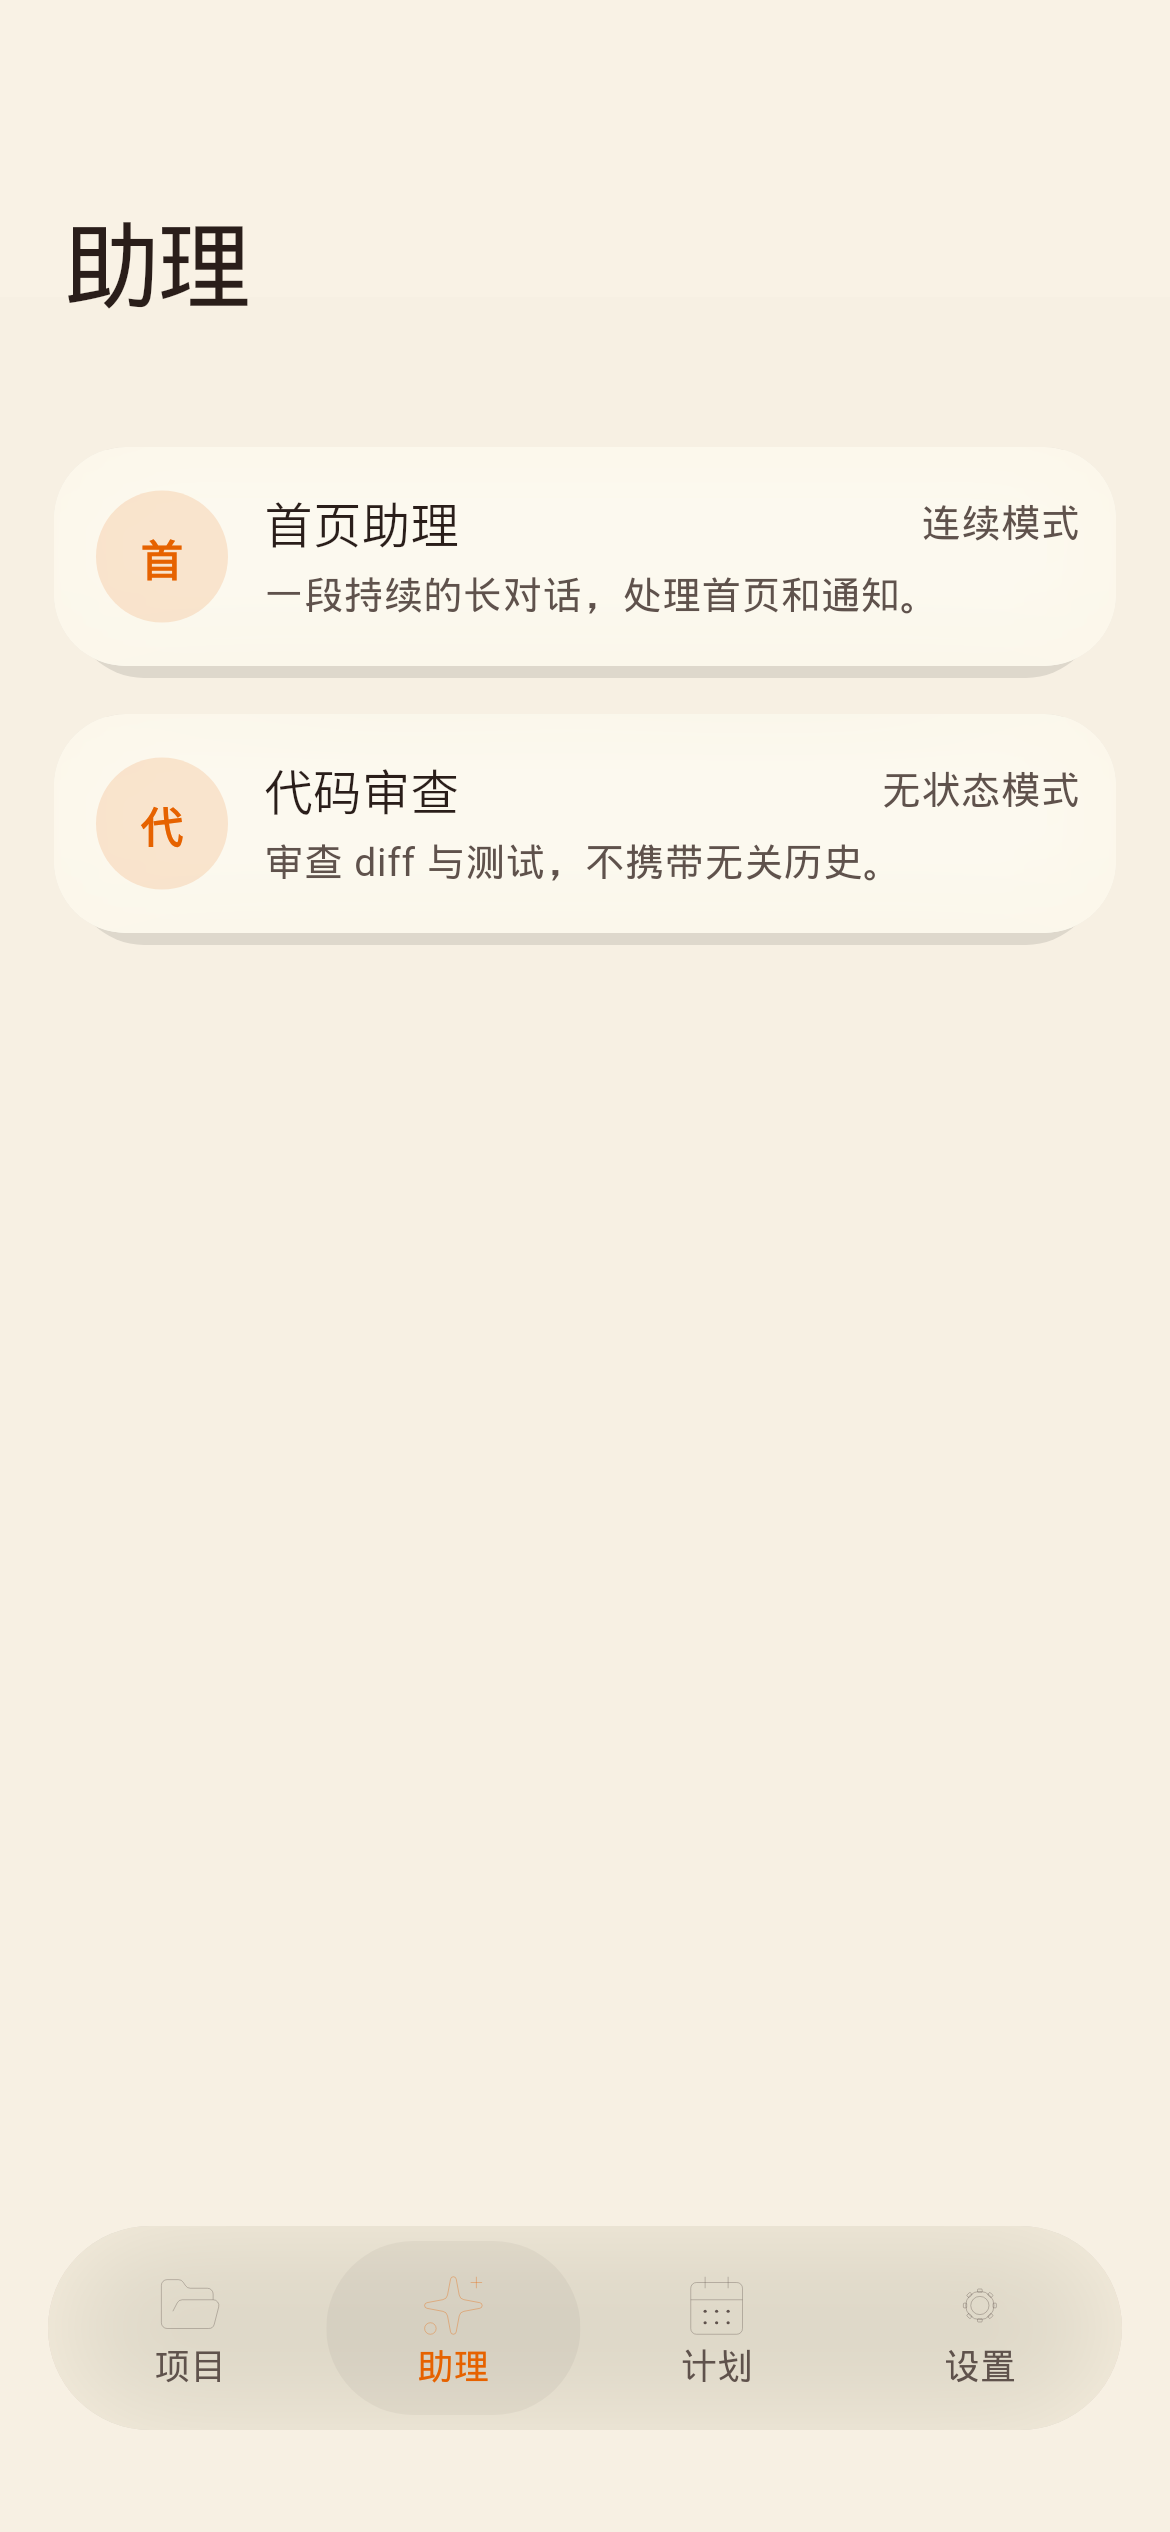
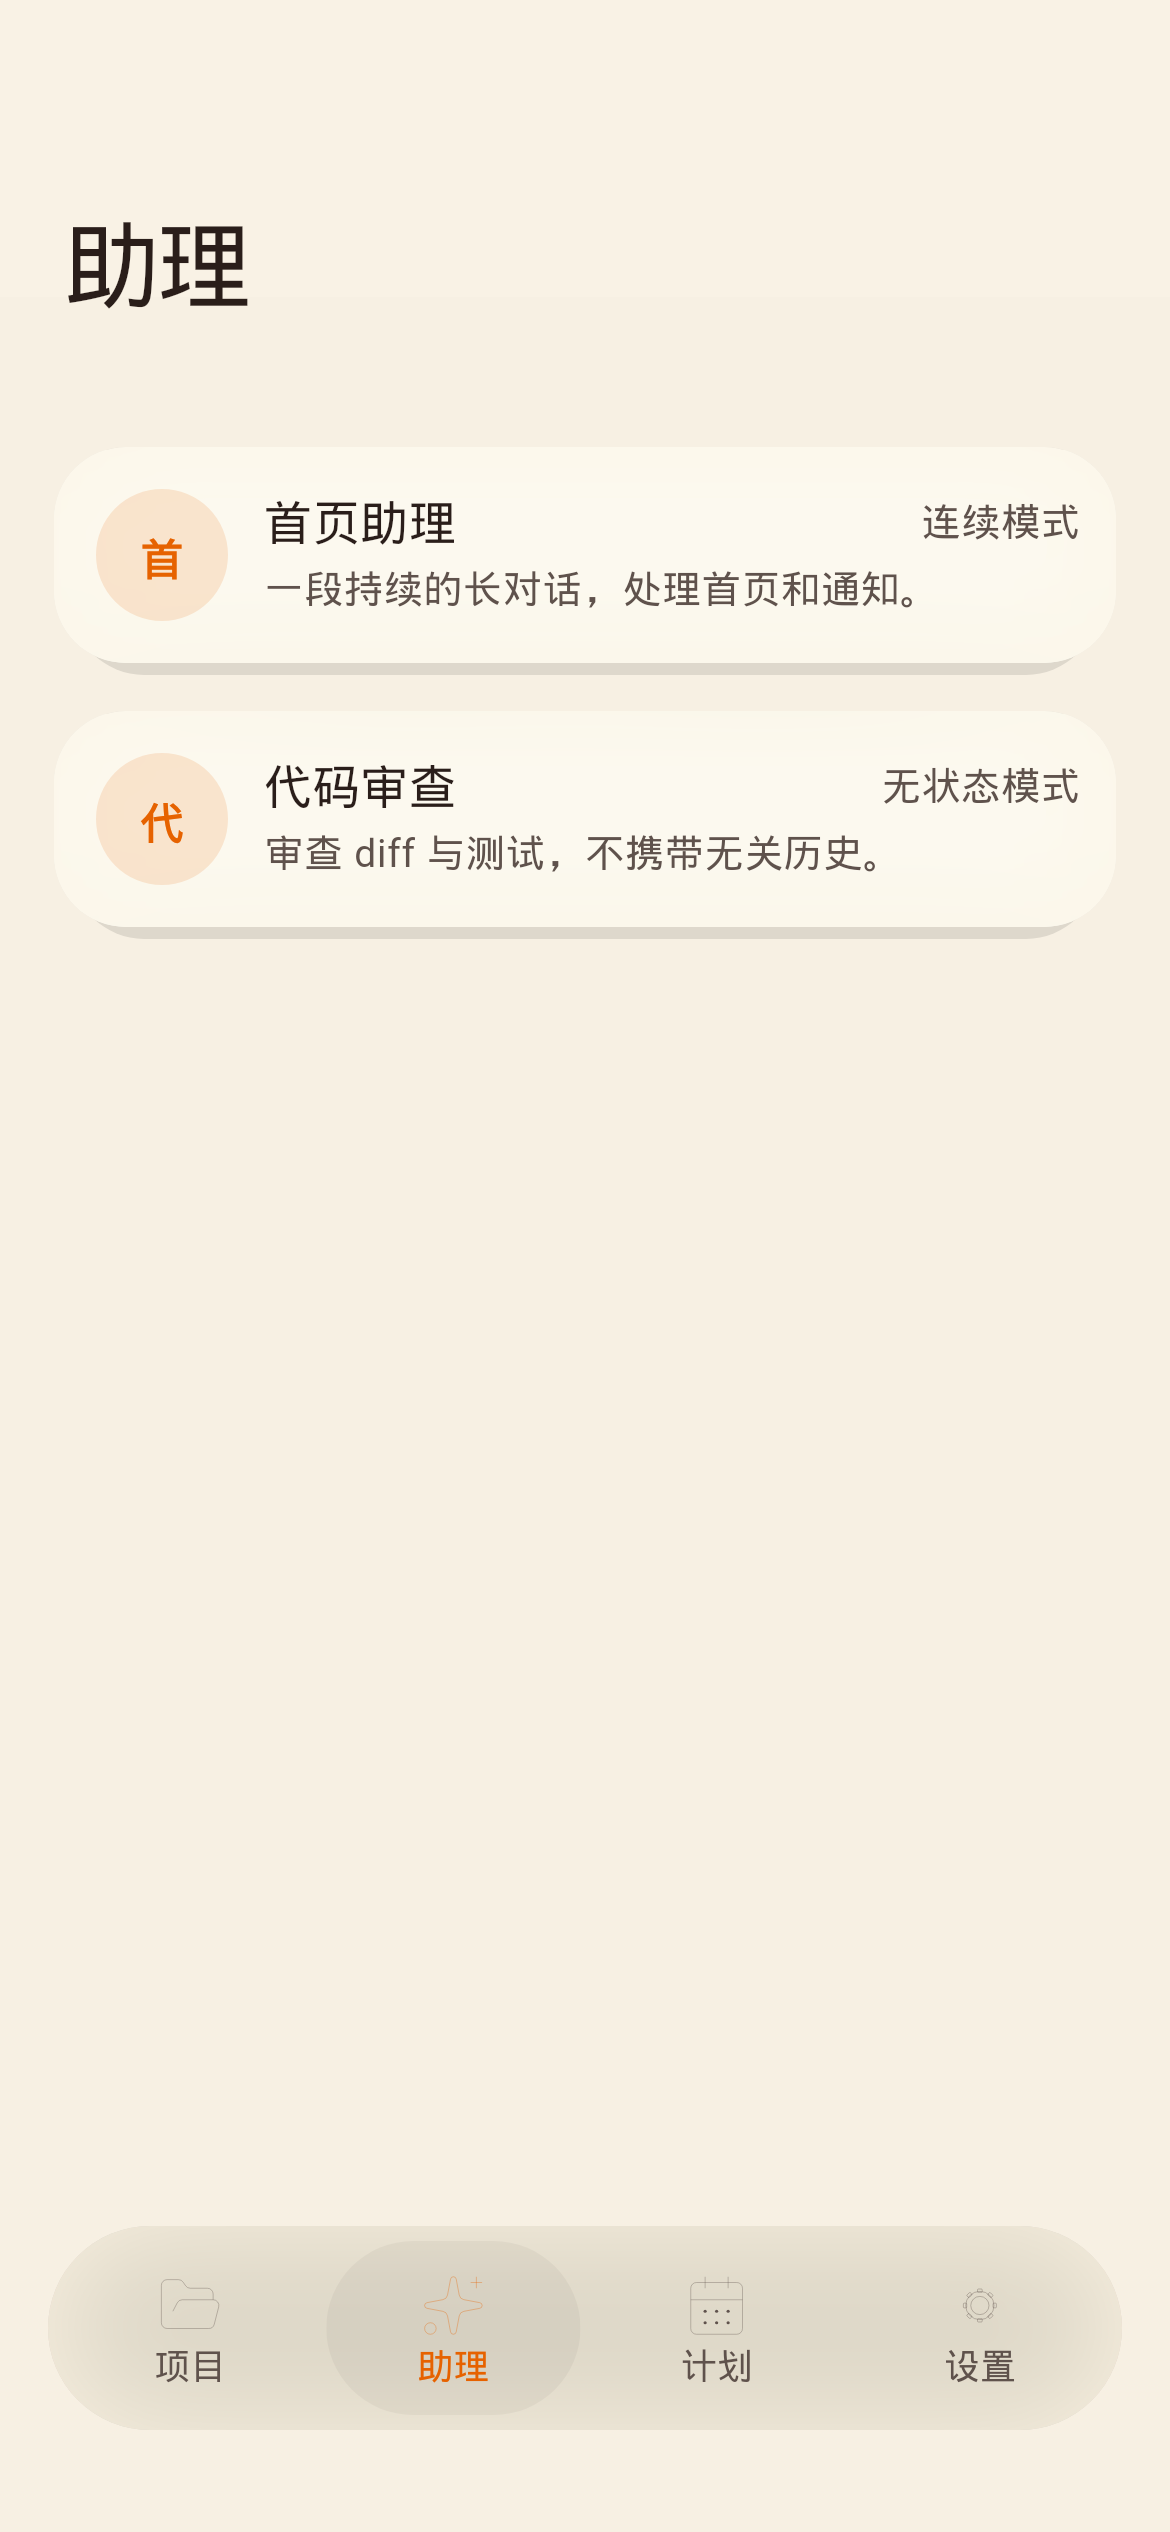
chore(flutter): recapture 03 after wake-0419 assistant Regular
Kept 03-assistant (MAE ~1.61). 02/04/05 dark SAME. Restored light
02/04 and the other frames. Dart parent 18fa0439b.

diff --git a/docs/flutter-native-screenshots/README.md b/docs/flutter-native-screenshots/README.md
@@ -766,15 +766,14 @@ painted none. No 8/20 umbra. Recapture after `be2eb9a63`: kept
 Restored light 02/04 (MAE ~0.02) and 01/03/05/06/07/08.
 **Not 精致.**
 
-**2026-09-04 wake-0419 residual (after `2f1d7a978`):**
-Watch scored live dark-dock goldens. STRUCTURE PASS. THEME OK.
-Do **not** pile Regular / 3.2 / 3.0 / 1.46 / frost 0.16 / disc 24 /
-search plate 34. Dark far **0.34** and dock near pair stay. Press
-DONE. Assistant card names were raw `w600` Text — leftover DemiLight
-@16 vs PingFang. Port official root `oc-mobile-entity-title` 16/20
-plus HighlightedText CJK Regular (same recipe as project/session).
-Not a half-lead/tracking pile. Recapture 03 after this dart; restore
-02/04/05 if MAE stays below noise.
+**2026-09-04 wake-0419 residual (after dart `18fa0439b`):**
+Watch scored live dark-dock goldens `2f1d7a978`. STRUCTURE PASS.
+THEME OK. Do **not** pile Regular / 3.2 / 3.0 / 1.46 / frost 0.16 /
+disc 24 / search plate 34. Dark far **0.34** and dock near pair stay.
+Press DONE. Assistant card names were raw `w600` Text. Port official
+root `oc-mobile-entity-title` 16/20 plus HighlightedText CJK Regular.
+Recapture after `18fa0439b`: kept `03-assistant` `1299800a` (MAE ~1.61).
+02/04/05 dark SAME. Restored light 02/04 (MAE ~0.02) and 01/06/07/08.
 **Not 精致.**
 
 | File | Screen |
